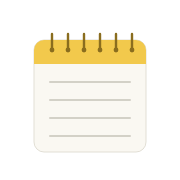
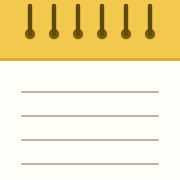
Add files via upload

diff --git a/index.html b/index.html
@@ -322,7 +322,7 @@ body.narrow.screen-note #bnBackup{display:none}
 <script>
 'use strict';
 /* ===== Memo v1.0 ===== */
-const APP_VER = '1.0';
+const APP_VER = '1.2';
 const KEY = 'memo-app-data-v1';
 const PKEY = 'memo-prefs-v1';
 const BKEY = 'memo-last-backup';
@@ -351,7 +351,7 @@ const mq = matchMedia('(min-width: 900px)');
 
 /* ===== data ===== */
 let D, P, lastSaved = '', readOnly = false, saveTimer = null;
-const defaultPrefs = { mode: 'split', style: 'std', sort: 'upd', fs: 0, rate: 1, voice: '', side: true, collapsed: {} };
+const defaultPrefs = { printDate: false, mode: 'split', style: 'std', sort: 'upd', fs: 0, rate: 1, voice: '', side: true, collapsed: {} };
 function welcomeData() {
   const now = Date.now();
   const n1 = { id: uid(), title: 'Memoの使い方', folder: null, pinned: false, created: now, updated: now, body:
@@ -923,13 +923,25 @@ const FMT = [
   ['・', () => linePrefix('ul')], ['1.', () => linePrefix('ol')], ['☑', () => linePrefix('task')], ['>', () => linePrefix('quote')], null,
   ['表', insertTable], ['{ }', insertCode], ['―', () => insertBlock('---')], ['[[ ]]', wikiLink], ['URL', urlLink]
 ];
+let lastSel = [0, 0], lastTouchRun = 0;
+function rememberSel() { lastSel = [src.selectionStart, src.selectionEnd]; }
+['select', 'keyup', 'mouseup', 'touchend', 'input', 'blur'].forEach(ev => src.addEventListener(ev, rememberSel));
 function buildFmt() {
   const f = $('#fmt');
   for (const it of FMT) {
     if (!it) { f.append(el('span', { class: 'fsep' })); continue; }
     const b = el('button', { type: 'button' }, it[0]); if (it[2]) b.style.cssText = it[2];
+    const run = () => {
+      if (readOnly || !cur || modeNow === 'view') return;
+      if (document.activeElement !== src) { src.focus({ preventScroll: true }); src.setSelectionRange(lastSel[0], lastSel[1]); }
+      it[1](); rememberSel();
+    };
+    let tx = 0, ty = 0, moved = false;
+    b.addEventListener('touchstart', e => { const t = e.touches[0]; tx = t.clientX; ty = t.clientY; moved = false; }, { passive: true });
+    b.addEventListener('touchmove', e => { const t = e.touches[0]; if (Math.abs(t.clientX - tx) > 8 || Math.abs(t.clientY - ty) > 8) moved = true; }, { passive: true });
+    b.addEventListener('touchend', e => { if (moved) return; e.preventDefault(); lastTouchRun = Date.now(); run(); }, { passive: false });
     b.addEventListener('mousedown', e => e.preventDefault());
-    b.addEventListener('click', () => { if (readOnly || !cur) return; if (modeNow === 'view') return; it[1](); });
+    b.addEventListener('click', () => { if (Date.now() - lastTouchRun < 700) return; run(); });
     f.append(b);
   }
 }
@@ -1147,6 +1159,7 @@ $('#noteMenuBtn').addEventListener('click', e => {
     { label: '複製', action: () => duplicateNote(n) },
     { label: '書き出し（.md）', action: () => exportOne(n) },
     { label: 'PDF出力', action: doPrint },
+    { label: 'PDFに日時を入れる', checked: !!P.printDate, action: () => { P.printDate = !P.printDate; savePrefs(); toast(P.printDate ? 'PDFの右下に印刷した日時を入れます' : 'PDFに日時を入れません'); } },
     { sep: true },
     { label: '削除', danger: true, action: () => deleteNote(n) }
   ], e.currentTarget);
@@ -1179,15 +1192,20 @@ $('#q').addEventListener('input', renderList);
 $('#sort').addEventListener('change', e => { P.sort = e.target.value; savePrefs(); renderList(); });
 
 /* ===== print ===== */
+function setPageStyle() {
+  let st = document.getElementById('pageStyle'); if (!st) { st = el('style', { id: 'pageStyle' }); document.head.append(st); }
+  const d = new Date(); const stamp = P.printDate ? `${today(d)} ${pad(d.getHours())}:${pad(d.getMinutes())}` : '';
+  st.textContent = `@page{@top-left{content:""}@top-center{content:""}@top-right{content:""}@bottom-left{content:""}@bottom-right{content:"${stamp}";font-size:8pt;color:#888}}`;
+}
 function doPrint() {
   const n = noteById(cur); if (!n) return;
   if (tts.active) ttsStop();
   const prev = modeNow;
   if (modeNow === 'edit') setMode('view', true);
-  renderPreview(); document.title = pageName(n);
+  renderPreview(); document.title = pageName(n); setPageStyle();
   setTimeout(() => { window.print(); if (prev === 'edit') setMode('edit', true); }, 50);
 }
-addEventListener('beforeprint', () => { const n = noteById(cur); if (n) { renderPreview(); document.title = pageName(n); } });
+addEventListener('beforeprint', () => { setPageStyle(); const n = noteById(cur); if (n) { renderPreview(); document.title = pageName(n); } });
 
 /* ===== files: save / share ===== */
 async function saveFile(blob, name, types) {
@@ -1422,7 +1440,7 @@ function renderTplEdit() {
 $('#tplNew').addEventListener('click', () => { const t = { id: uid(), name: '新しいテンプレート', title: '', body: '', updated: Date.now() }; D.templates.push(t); tplCur = t.id; saveNow(); renderTplList(); renderTplEdit(); });
 
 /* ===== service worker / update ===== */
-let swReg = null;
+let swReg = null, updateRequested = false;
 if ('serviceWorker' in navigator && location.protocol.startsWith('http')) {
   navigator.serviceWorker.register('sw.js').then(reg => {
     swReg = reg;
@@ -1432,9 +1450,9 @@ if ('serviceWorker' in navigator && location.protocol.startsWith('http')) {
     document.addEventListener('visibilitychange', () => { if (!document.hidden) reg.update().catch(() => {}); });
   }).catch(() => {});
   let reloading = false;
-  navigator.serviceWorker.addEventListener('controllerchange', () => { if (reloading) return; reloading = true; saveNow(); location.reload(); });
+  navigator.serviceWorker.addEventListener('controllerchange', () => { if (reloading || !updateRequested) return; reloading = true; saveNow(); location.reload(); });
 }
-$('#bnUpdateBtn').addEventListener('click', () => { saveNow(); if (swReg && swReg.waiting) swReg.waiting.postMessage('skipWaiting'); else location.reload(); });
+$('#bnUpdateBtn').addEventListener('click', () => { saveNow(); updateRequested = true; if (swReg && swReg.waiting) swReg.waiting.postMessage('skipWaiting'); else location.reload(); });
 
 /* ===== init ===== */
 function init() {

diff --git a/sw.js b/sw.js
@@ -1,5 +1,5 @@
 // アプリを直したときは、この番号を上げる（memo-v2 など）
-const CACHE = 'memo-v1';
+const CACHE = 'memo-v3';
 const FILES = ['./', './index.html', './manifest.webmanifest', './icon-192.png', './icon-512.png', './apple-touch-icon.png'];
 
 self.addEventListener('install', e => {
